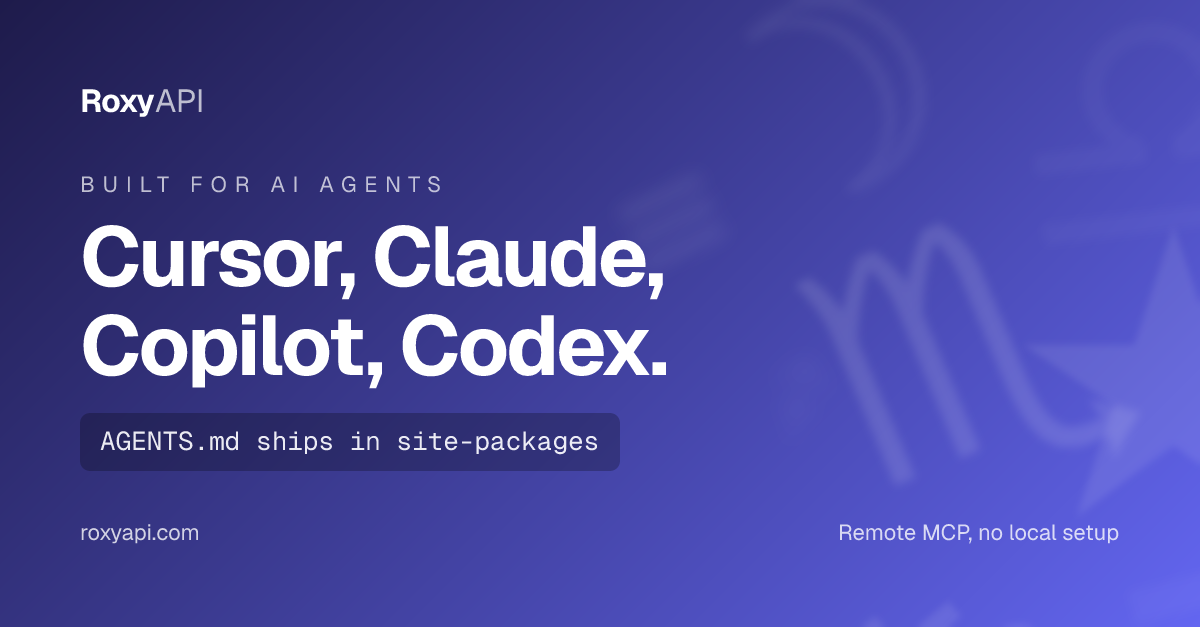
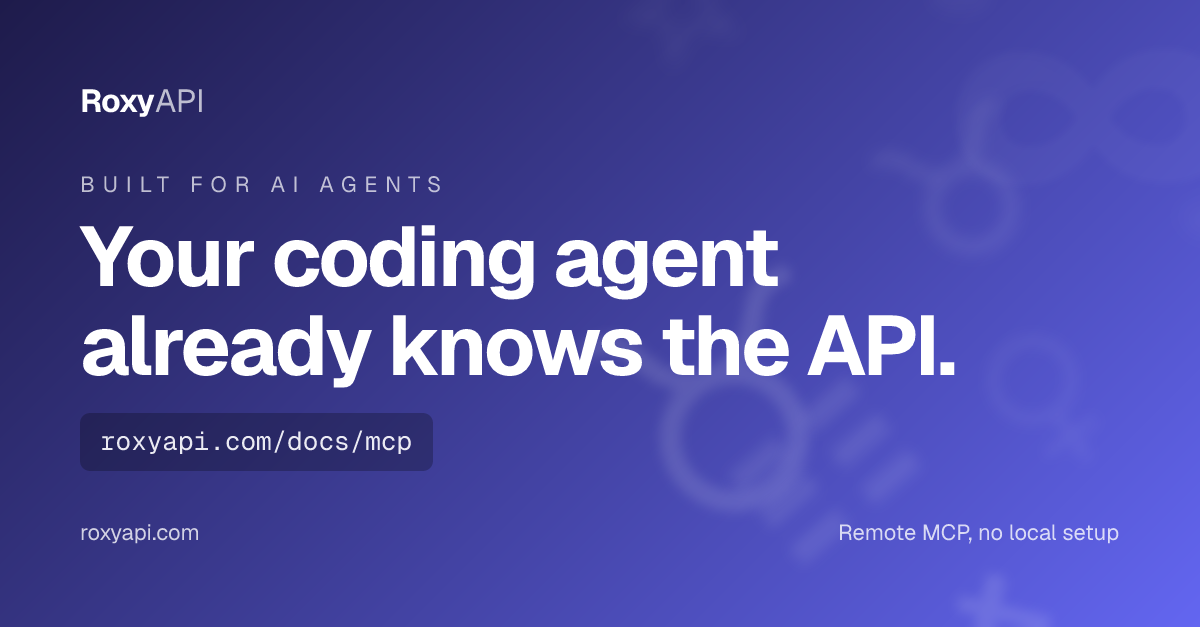
docs: agents card sells the outcome, Remote MCP casing

Changed region(s): [[0.0617, 0.3333, 0.8017, 0.6364], [0.0617, 0.6364, 0.5242, 0.7576], [0.8942, 0.6364, 0.9558, 0.7273]]

diff --git a/README.md b/README.md
@@ -427,12 +427,12 @@ sequence = roxy.angel_numbers.analyze_number_sequence(number="4242")
 ## Built for AI agents (Claude Code, Cursor, Copilot, Codex, Gemini CLI)
 
 <p align="center">
-  <img src="https://raw.githubusercontent.com/RoxyAPI/sdk-python/main/assets/agents.png" alt="Built for Cursor, Claude, Copilot, Codex. AGENTS.md ships in site-packages, remote MCP, no local setup." width="100%">
+  <img src="https://raw.githubusercontent.com/RoxyAPI/sdk-python/main/assets/agents.png" alt="Your coding agent already knows the API. Built for AI agents, Remote MCP, no local setup." width="100%">
 </p>
 
 This package ships `AGENTS.md` bundled alongside the source so AI coding agents can read the SDK patterns, common tasks, and gotchas directly from `site-packages/`.
 
-Prefer MCP? Every domain has a [remote MCP server](https://roxyapi.com/docs/mcp) at `https://roxyapi.com/mcp/{domain}` (Streamable HTTP, no stdio, no self-hosting). One-line Claude Code setup:
+Prefer MCP? Every domain has a [Remote MCP server](https://roxyapi.com/docs/mcp) at `https://roxyapi.com/mcp/{domain}` (Streamable HTTP, no stdio, no self-hosting). One-line Claude Code setup:
 
 ```bash
 claude mcp add-json --scope user roxy-astrology \
